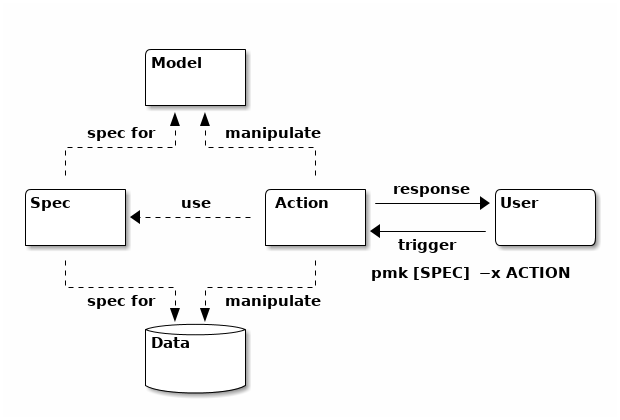
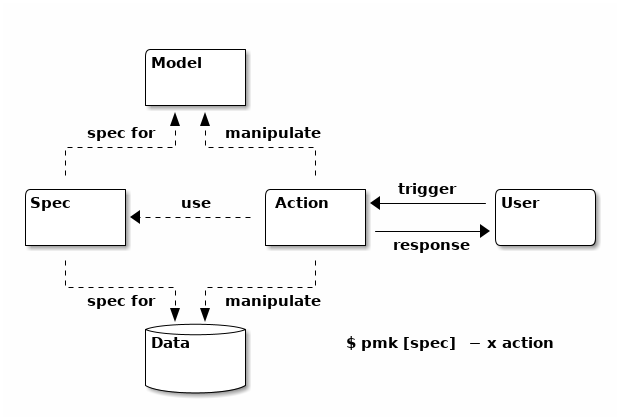
fix msa figure

diff --git a/wiki/msa.md b/wiki/msa.md
@@ -1,8 +1,3 @@
-<meta charset="utf-8" emacsmode="-*- markdown -*-">
-
-
-<!-- Ditaa Diagram! -->
-
 
             /---------+
             |Model    |
@@ -20,21 +15,14 @@
 |         |             |         |----------->|         |
 +---------+             +---------+  response  \---------/
     |                        |
-    |                        |      pmk [spec] -x action
+    |                        |
     +----=-----+  +----=-----+
       spec for |  | manipulate
                v  v
             /---------+
-            |Data     |
+            |Data     |         $ pmk [spec] -x action
             |      {s}|
             |         |
             +---------+
 
-
-
-<!-- Markdeep: -->
-<style class="fallback">body{visibility:hidden;white-space:pre;font-family:monospace}</style>
-<!--<script src="markdeep.min.js"></script>-->
-<script src="https://casual-effects.com/markdeep/latest/markdeep.min.js"></script>
-<script>window.alreadyProcessedMarkdeep||(document.body.style.visibility="visible")</script>
 
